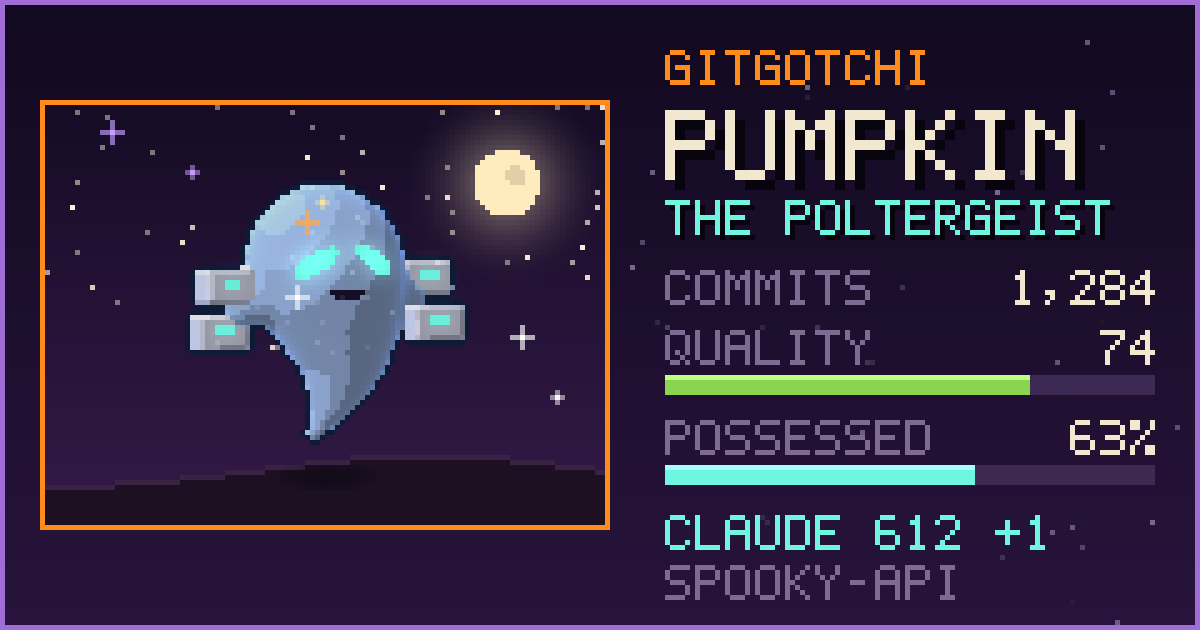
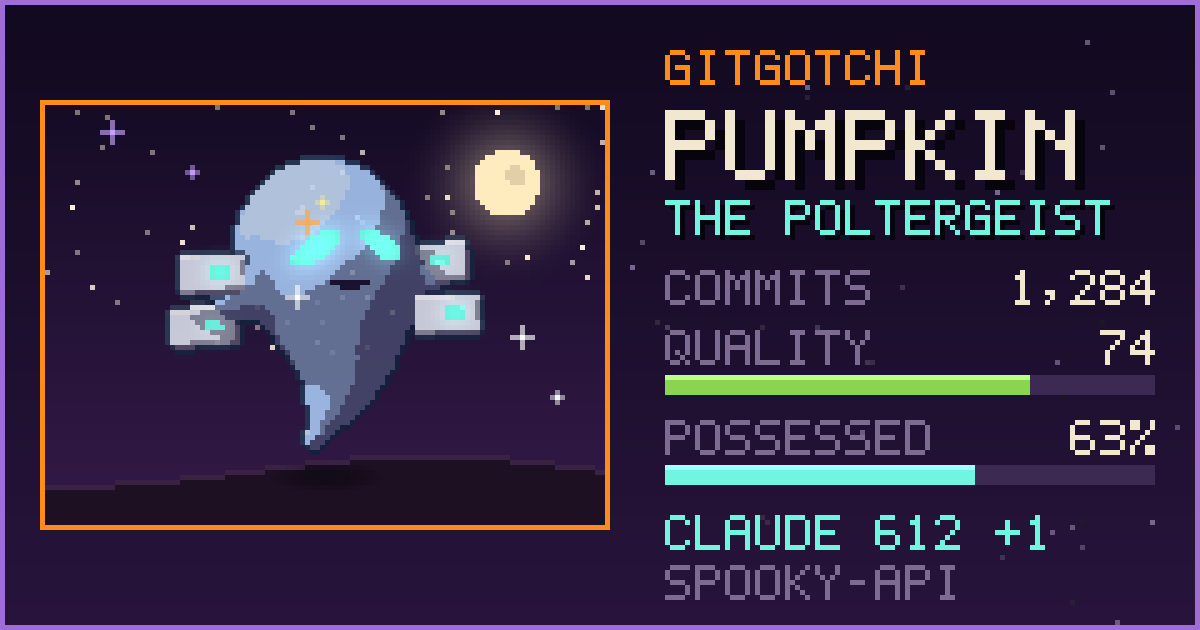
Sharpen the sprites
- frame each form tighter so it gets more pixels
- hue-shifted ramps, upper-front light and contact shadows replace the
  striped brightness bands
- specular highlights, color-matched outlines and inner lines between
  overlapping parts
- clean up one-pixel spurs, notches and stray shading pixels, without
  wrapping around the canvas edge
- warmer pumpkin shadows, curved demon horns, feathered angel wings
- regenerate the README and website images

Changed region(s): [[0.1233, 0.2413, 0.4008, 0.7238]]

diff --git a/src/gitgotchi/render/raster.py b/src/gitgotchi/render/raster.py
@@ -12,11 +12,6 @@ import numpy as np
 
 RGB = Tuple[int, int, int]
 
-LIGHT = np.array([-0.55, 0.65, -0.55]) / np.linalg.norm([-0.55, 0.65, -0.55])
-
-# Brightness of each cel-shading band, darkest to brightest
-BANDS = np.array([0.56, 0.74, 0.9, 1.0, 1.1])
-
 
 @dataclass
 class Pose:
@@ -44,6 +39,10 @@ class Form:
     colors: Dict[int, RGB] = field(default_factory=lambda: {0: (232, 228, 250)})
     emissive: Set[int] = field(default_factory=set)
     opacity: float = 1.0
+    # 0 for matte; higher values give a bigger specular highlight
+    gloss: float = 0.0
+    # Color the shadows lean toward; None uses the default cool purple
+    shadow: Optional[RGB] = None
     eyes_closed: bool = False
 
     def shut(self, t: float, at: float = 0.62, length: float = 0.05) -> bool:
@@ -149,8 +148,11 @@ def render(
         depth[active] += np.where(done, 0, d)
         active = active[~done & (depth[active] < 6)]
 
-    rgba = np.zeros((count, 4))
-    glow = np.zeros((count, 3))
+    shape = (height, width)
+    on = hit.reshape(shape)
+    material = np.full(count, -1)
+    band = np.zeros(count, dtype=int)
+    shine = np.zeros(count, dtype=bool)
     idx = np.nonzero(hit)[0]
     if idx.size:
         view_points = origin[idx].copy()
@@ -164,39 +166,161 @@ def render(
             step[axis] = e
             normal[:, axis] = form.sdf(obj + step, t) - form.sdf(obj - step, t)
         normal /= np.linalg.norm(normal, axis=1, keepdims=True) + 1e-9
+        view_normal = rot_z(rot_y(normal, -pose.yaw), pose.tilt)
 
-        view_normal = rot_y(normal, -pose.yaw)
-        view_normal = rot_z(view_normal, pose.tilt)
-        diffuse = np.clip(view_normal @ LIGHT, 0, 1)
-        band = np.digitize(diffuse, [0.08, 0.38, 0.72, 0.94])
-        rim = np.clip(1 + view_normal[:, 2], 0, 1) ** 3
+        # Half-Lambert keeps the dark side readable; occlusion darkens the
+        # creases where arms, horns and hems meet the body
+        light = np.clip(view_normal @ LIGHT * 0.5 + 0.5, 0, 1)
+        light *= 0.6 + 0.4 * occlusion(form, obj, normal, t)
+        band[idx] = np.digitize(light, BAND_EDGES)
+        if form.gloss:
+            shine[idx] = (np.clip(view_normal @ HALFWAY, 0, 1) ** 40) > 1 - form.gloss
+        material[idx] = form.paint(obj, normal, t)
 
-        material = form.paint(obj, normal, t)
-        base = np.array([form.colors[m] for m in range(max(form.colors) + 1)], float)
-        color = base[material] * BANDS[band][:, None]
-        color += rim[:, None] * np.array(form.rim, float) * 0.55
+    material = material.reshape(shape)
+    band = band.reshape(shape)
+    shine = shine.reshape(shape) & on
+    on, material, band = clean_pixels(on, material, band)
 
-        lit = np.isin(material, list(form.emissive))
-        color[lit] = base[material[lit]]
-        glow[idx[lit]] = base[material[lit]]
+    depth_map = np.where(on, depth.reshape(shape), 0.0)
+    rgba = np.zeros((height, width, 4))
+    glow = np.zeros((height, width, 3))
+    for m in np.unique(material[on]):
+        base = np.array(form.colors[m], float)
+        where = on & (material == m)
+        if m in form.emissive:
+            rgba[where, :3] = base
+            glow[where] = base
+            continue
+        tones = ramp(base, form.shadow)
+        rgba[where, :3] = tones[np.minimum(band[where], len(tones) - 2)]
+        lit = where & shine
+        rgba[lit, :3] = tones[-1]
+    rgba[on, 3] = 255 * form.opacity
 
-        rgba[idx, :3] = np.clip(color, 0, 255)
-        rgba[idx, 3] = 255 * form.opacity
-
-    frame = Frame(rgba.reshape(height, width, 4), glow.reshape(height, width, 3))
-    frame = add_outline(frame, form.outline)
+    frame = Frame(rgba, glow)
+    draw_inner_lines(frame, on, depth_map, form.outline)
+    add_outline(frame, form.outline)
     return form.post(frame, t)
 
 
+# Light from the upper left, slightly in front, so bands curve around the
+# form instead of running down it in vertical stripes
+LIGHT = np.array([-0.45, 0.72, -0.53]) / np.linalg.norm([-0.45, 0.72, -0.53])
+HALFWAY = (LIGHT + np.array([0, 0, -1.0])) / np.linalg.norm(LIGHT + np.array([0, 0, -1.0]))
+BAND_EDGES = [0.5, 0.67, 0.86]
+# Depth jump (world units) between neighbouring pixels that counts as one part
+# in front of another
+INNER_LINE_GAP = 0.4
+SHADOW_TINT = np.array([52, 28, 96], float)
+LIGHT_TINT = np.array([255, 238, 196], float)
+
+
+def shifted(a: np.ndarray, shift: int, axis: int, fill=0) -> np.ndarray:
+    """Like np.roll, but without wrapping: cells shifted in from the edge get `fill`."""
+    out = np.full_like(a, fill)
+    src = [slice(None)] * a.ndim
+    dst = [slice(None)] * a.ndim
+    if shift > 0:
+        src[axis], dst[axis] = slice(None, -shift), slice(shift, None)
+    else:
+        src[axis], dst[axis] = slice(-shift, None), slice(None, shift)
+    out[tuple(dst)] = a[tuple(src)]
+    return out
+
+
+def ramp(base: np.ndarray, shadow: Optional[RGB] = None) -> np.ndarray:
+    """Hue-shifted shades of one color: shadows lean cool, highlights warm.
+
+    Very dark and near-white colors (eyes, shines) stay flat so faces stay
+    crisp. The last entry is the specular highlight.
+    """
+    luma = base @ [0.299, 0.587, 0.114]
+    if luma < 55 or luma > 245:
+        return np.array([base] * 5)
+    tint = SHADOW_TINT if shadow is None else np.array(shadow, float)
+    return np.clip(
+        np.array(
+            [
+                base * 0.46 * 0.68 + tint * 0.32,
+                base * 0.7 * 0.84 + tint * 0.16,
+                base,
+                (base * 1.06) * 0.75 + LIGHT_TINT * 0.25,
+                base * 0.35 + 255 * 0.65,
+            ]
+        ),
+        0,
+        255,
+    )
+
+
+def occlusion(form: "Form", p: np.ndarray, n: np.ndarray, t: float) -> np.ndarray:
+    """Cheap ambient occlusion: how much nearby geometry crowds each point."""
+    total = np.zeros(len(p))
+    for distance, weight in ((0.06, 0.6), (0.16, 0.4)):
+        free = form.sdf(p + n * distance, t)
+        total += weight * np.clip(free / distance, 0, 1)
+    return total
+
+
+def clean_pixels(on: np.ndarray, material: np.ndarray, band: np.ndarray):
+    """Pixel-art cleanup: shave one-pixel spurs, fill one-pixel notches, and
+    merge isolated shading pixels into their surroundings."""
+    def neighbours(mask):
+        padded = np.pad(mask, 1).astype(int)
+        return padded[:-2, 1:-1] + padded[2:, 1:-1] + padded[1:-1, :-2] + padded[1:-1, 2:]
+
+    count = neighbours(on)
+    spurs = on & (count <= 1)
+    notches = ~on & (count >= 3)
+    on = (on & ~spurs) | notches
+
+    if notches.any():
+        # A filled notch takes the material and shade of a neighbour
+        for shift, axis in ((1, 0), (-1, 0), (1, 1), (-1, 1)):
+            src_m = shifted(material, shift, axis, -1)
+            src_b = shifted(band, shift, axis)
+            take = notches & (material < 0) & (src_m >= 0)
+            material[take] = src_m[take]
+            band[take] = src_b[take]
+        on &= material >= 0
+
+    # A shading pixel unlike all four neighbours of the same material is noise
+    stack_b = [shifted(band, s, a) for s, a in ((1, 0), (-1, 0), (1, 1), (-1, 1))]
+    stack_m = [shifted(material, s, a, -1) for s, a in ((1, 0), (-1, 0), (1, 1), (-1, 1))]
+    same = [(m == material) for m in stack_m]
+    lonely = on & np.all([~s | (b != band) for s, b in zip(same, stack_b)], axis=0) & np.all(same, axis=0)
+    if lonely.any():
+        votes = np.stack(stack_b)
+        tallies = np.stack([(votes == k).sum(axis=0) for k in range(len(BAND_EDGES) + 1)])
+        band[lonely] = tallies.argmax(axis=0)[lonely]
+    return on, material, band
+
+
+def draw_inner_lines(frame: Frame, on: np.ndarray, depth: np.ndarray, color: RGB) -> None:
+    """Dark lines where one part sits in front of another (arms, horns, keys)."""
+    ink = np.array(color, float)
+    for axis in (0, 1):
+        for shift in (1, -1):
+            nearer = shifted(depth, shift, axis)
+            behind = on & shifted(on, shift, axis, False) & (depth - nearer > INNER_LINE_GAP)
+            frame.rgba[behind, :3] = frame.rgba[behind, :3] * 0.35 + ink * 0.65
+
+
 def add_outline(frame: Frame, color: RGB) -> Frame:
+    """1px outline that picks up a little of the color it borders."""
     mask = frame.rgba[:, :, 3] > 0
-    grown = mask.copy()
-    grown[1:] |= mask[:-1]
-    grown[:-1] |= mask[1:]
-    grown[:, 1:] |= mask[:, :-1]
-    grown[:, :-1] |= mask[:, 1:]
-    edge = grown & ~mask
-    frame.rgba[edge] = [*color, 255]
+    total = np.zeros(mask.shape + (3,))
+    count = np.zeros(mask.shape)
+    for axis in (0, 1):
+        for shift in (1, -1):
+            neighbour = shifted(mask, shift, axis, False)
+            total += shifted(frame.rgba[:, :, :3], shift, axis) * neighbour[..., None]
+            count += neighbour
+    edge = ~mask & (count > 0)
+    inside = total[edge] / count[edge][:, None]
+    frame.rgba[edge, :3] = np.array(color, float) * 0.86 + inside * 0.14
+    frame.rgba[edge, 3] = 255
     return frame
 
 

diff --git a/src/gitgotchi/render/forms.py b/src/gitgotchi/render/forms.py
@@ -52,6 +52,8 @@ class Pumpkin(Form):
         }
     )
     emissive: set = field(default_factory=lambda: {3})
+    gloss: float = 0.1
+    shadow: tuple = (120, 26, 34)
 
     def pose(self, t):
         return hop(t)
@@ -67,7 +69,6 @@ class Pumpkin(Form):
     def paint(self, p, n, t):
         x, y, z = p[:, 0], p[:, 1], p[:, 2]
         out = np.zeros(len(p), dtype=int)
-        out[np.cos(8 * np.arctan2(z, x)) < -0.75] = 1
         out[y > 0.17] = 2
 
         front = z < -0.2
@@ -91,6 +92,7 @@ class Ghost(Form):
     """The default friendly spirit."""
 
     name: str = "ghost"
+    gloss: float = 0.03
     colors: dict = field(
         default_factory=lambda: {
             0: (234, 230, 252),
@@ -141,6 +143,7 @@ class Poltergeist(Form):
     with keycaps orbiting it."""
 
     name: str = "poltergeist"
+    gloss: float = 0.08
     outline: tuple = (14, 26, 54)
     rim: tuple = (60, 110, 220)
     colors: dict = field(
@@ -271,15 +274,26 @@ class Angel(Ghost):
     )
     emissive: set = field(default_factory=lambda: {4})
 
+    def pose(self, t):
+        # Sit a little lower than a ghost so the halo stays in frame
+        pose = Ghost.pose(self, t)
+        pose.bob -= 0.08
+        return pose
+
     def _halo(self, p, t):
-        return torus(p, (0, 0.98 + 0.03 * np.sin(t * TAU * 2), 0.05), 0.3, 0.06, tilt=-0.55)
+        return torus(p, (0, 0.97 + 0.03 * np.sin(t * TAU * 2), 0.05), 0.27, 0.055, tilt=-0.42)
 
     def _wings(self, p, t):
-        flap = 0.25 * np.sin(t * TAU * 3)
+        """Two wings, each three feather lobes fanned out from behind the body."""
+        flap = 0.18 * np.sin(t * TAU * 3)
         d = np.full(len(p), 1e3)
+        feathers = ((0.4, 0.13, 0.0), (0.32, 0.11, 0.2), (0.24, 0.09, 0.38))
         for side in (-1, 1):
-            q = spin_z(p, (side * 0.6, 0.25, 0.3), side * (0.6 + flap))
-            d = np.minimum(d, ellipsoid(q, (side * 0.18, 0, 0), (0.34, 0.2, 0.07)))
+            pivot = (side * 0.48, 0.22, 0.28)
+            for length, thickness, fan in feathers:
+                q = spin_z(p, pivot, side * (0.95 + flap - fan))
+                lobe = ellipsoid(q, (side * length * 0.85, 0, 0), (length, thickness, 0.05))
+                d = smin(d, lobe, 0.03)
         return d
 
     def sdf(self, p, t):
@@ -298,6 +312,7 @@ class Demon(Form):
     """Chaotic path: horns, a forked tail and burning eyes."""
 
     name: str = "demon"
+    gloss: float = 0.06
     outline: tuple = (20, 6, 14)
     rim: tuple = (220, 60, 40)
     colors: dict = field(
@@ -320,10 +335,11 @@ class Demon(Form):
     def _horns(self, p):
         d = np.full(len(p), 1e3)
         for side in (-1, 1):
-            for k in range(5):
-                s = k / 4
-                center = (side * (0.32 + 0.22 * s), 0.62 + 0.42 * s - 0.12 * s * s, -0.02)
-                d = smin(d, sphere(p, center, 0.12 * (1 - s) + 0.025), 0.06)
+            # A curved horn: a chain of shrinking spheres sweeping up and out
+            for k in range(7):
+                s = k / 6
+                center = (side * (0.3 + 0.34 * s - 0.08 * s * s), 0.6 + 0.5 * s - 0.1 * s**3, -0.04)
+                d = smin(d, sphere(p, center, 0.15 * (1 - s) + 0.03), 0.05)
         return d
 
     def _tail(self, p, t):

diff --git a/src/gitgotchi/render/__init__.py b/src/gitgotchi/render/__init__.py
@@ -30,7 +30,8 @@ def render_scene(
         pose = Pose(yaw=0.0, bob=0.015 * np.sin(t * 2 * np.pi), squash=0.97, tilt=0.0)
         form.eyes_closed = True
 
-    frame = render(form, t, width, height, offset=(0.0, 0.12), pose=pose)
+    # Framed tight so the pet gets as many pixels as the canvas allows
+    frame = render(form, t, width, height, span=1.2, offset=(0.0, 0.07), pose=pose)
     frame.rgba = effects.flash(frame.rgba, flash)
     if not stage:
         return compose(frame)

diff --git a/src/gitgotchi/__init__.py b/src/gitgotchi/__init__.py
@@ -1,3 +1,3 @@
 """GitGotchi - A Halloween-inspired terminal companion for your git repository."""
 
-__version__ = "0.3.1"
+__version__ = "0.3.2"

diff --git a/CHANGELOG.md b/CHANGELOG.md
@@ -1,5 +1,19 @@
 # Changelog
 
+## 0.3.2
+
+### Sharper sprites
+
+- Every form is framed bigger, so it gets about 60% more pixels in the same space.
+- Shading uses hue-shifted color ramps (cool shadows, warm highlights) lit from the upper front, with
+  soft contact shadows, so forms look round instead of striped.
+- Glossy highlights on the pumpkin, the Demon and the Poltergeist's keycaps.
+- Outlines pick up a little of the color they border, and dark inner lines separate parts that
+  overlap (arms, horns, keycaps).
+- A cleanup pass removes one-pixel spurs, notches and stray shading pixels.
+- The pumpkin's shadows are warm instead of muddy, the Demon has bigger curved horns, and the Angel
+  has feathered wings and a halo that stays in frame.
+
 ## 0.3.1
 
 ### Fixed
